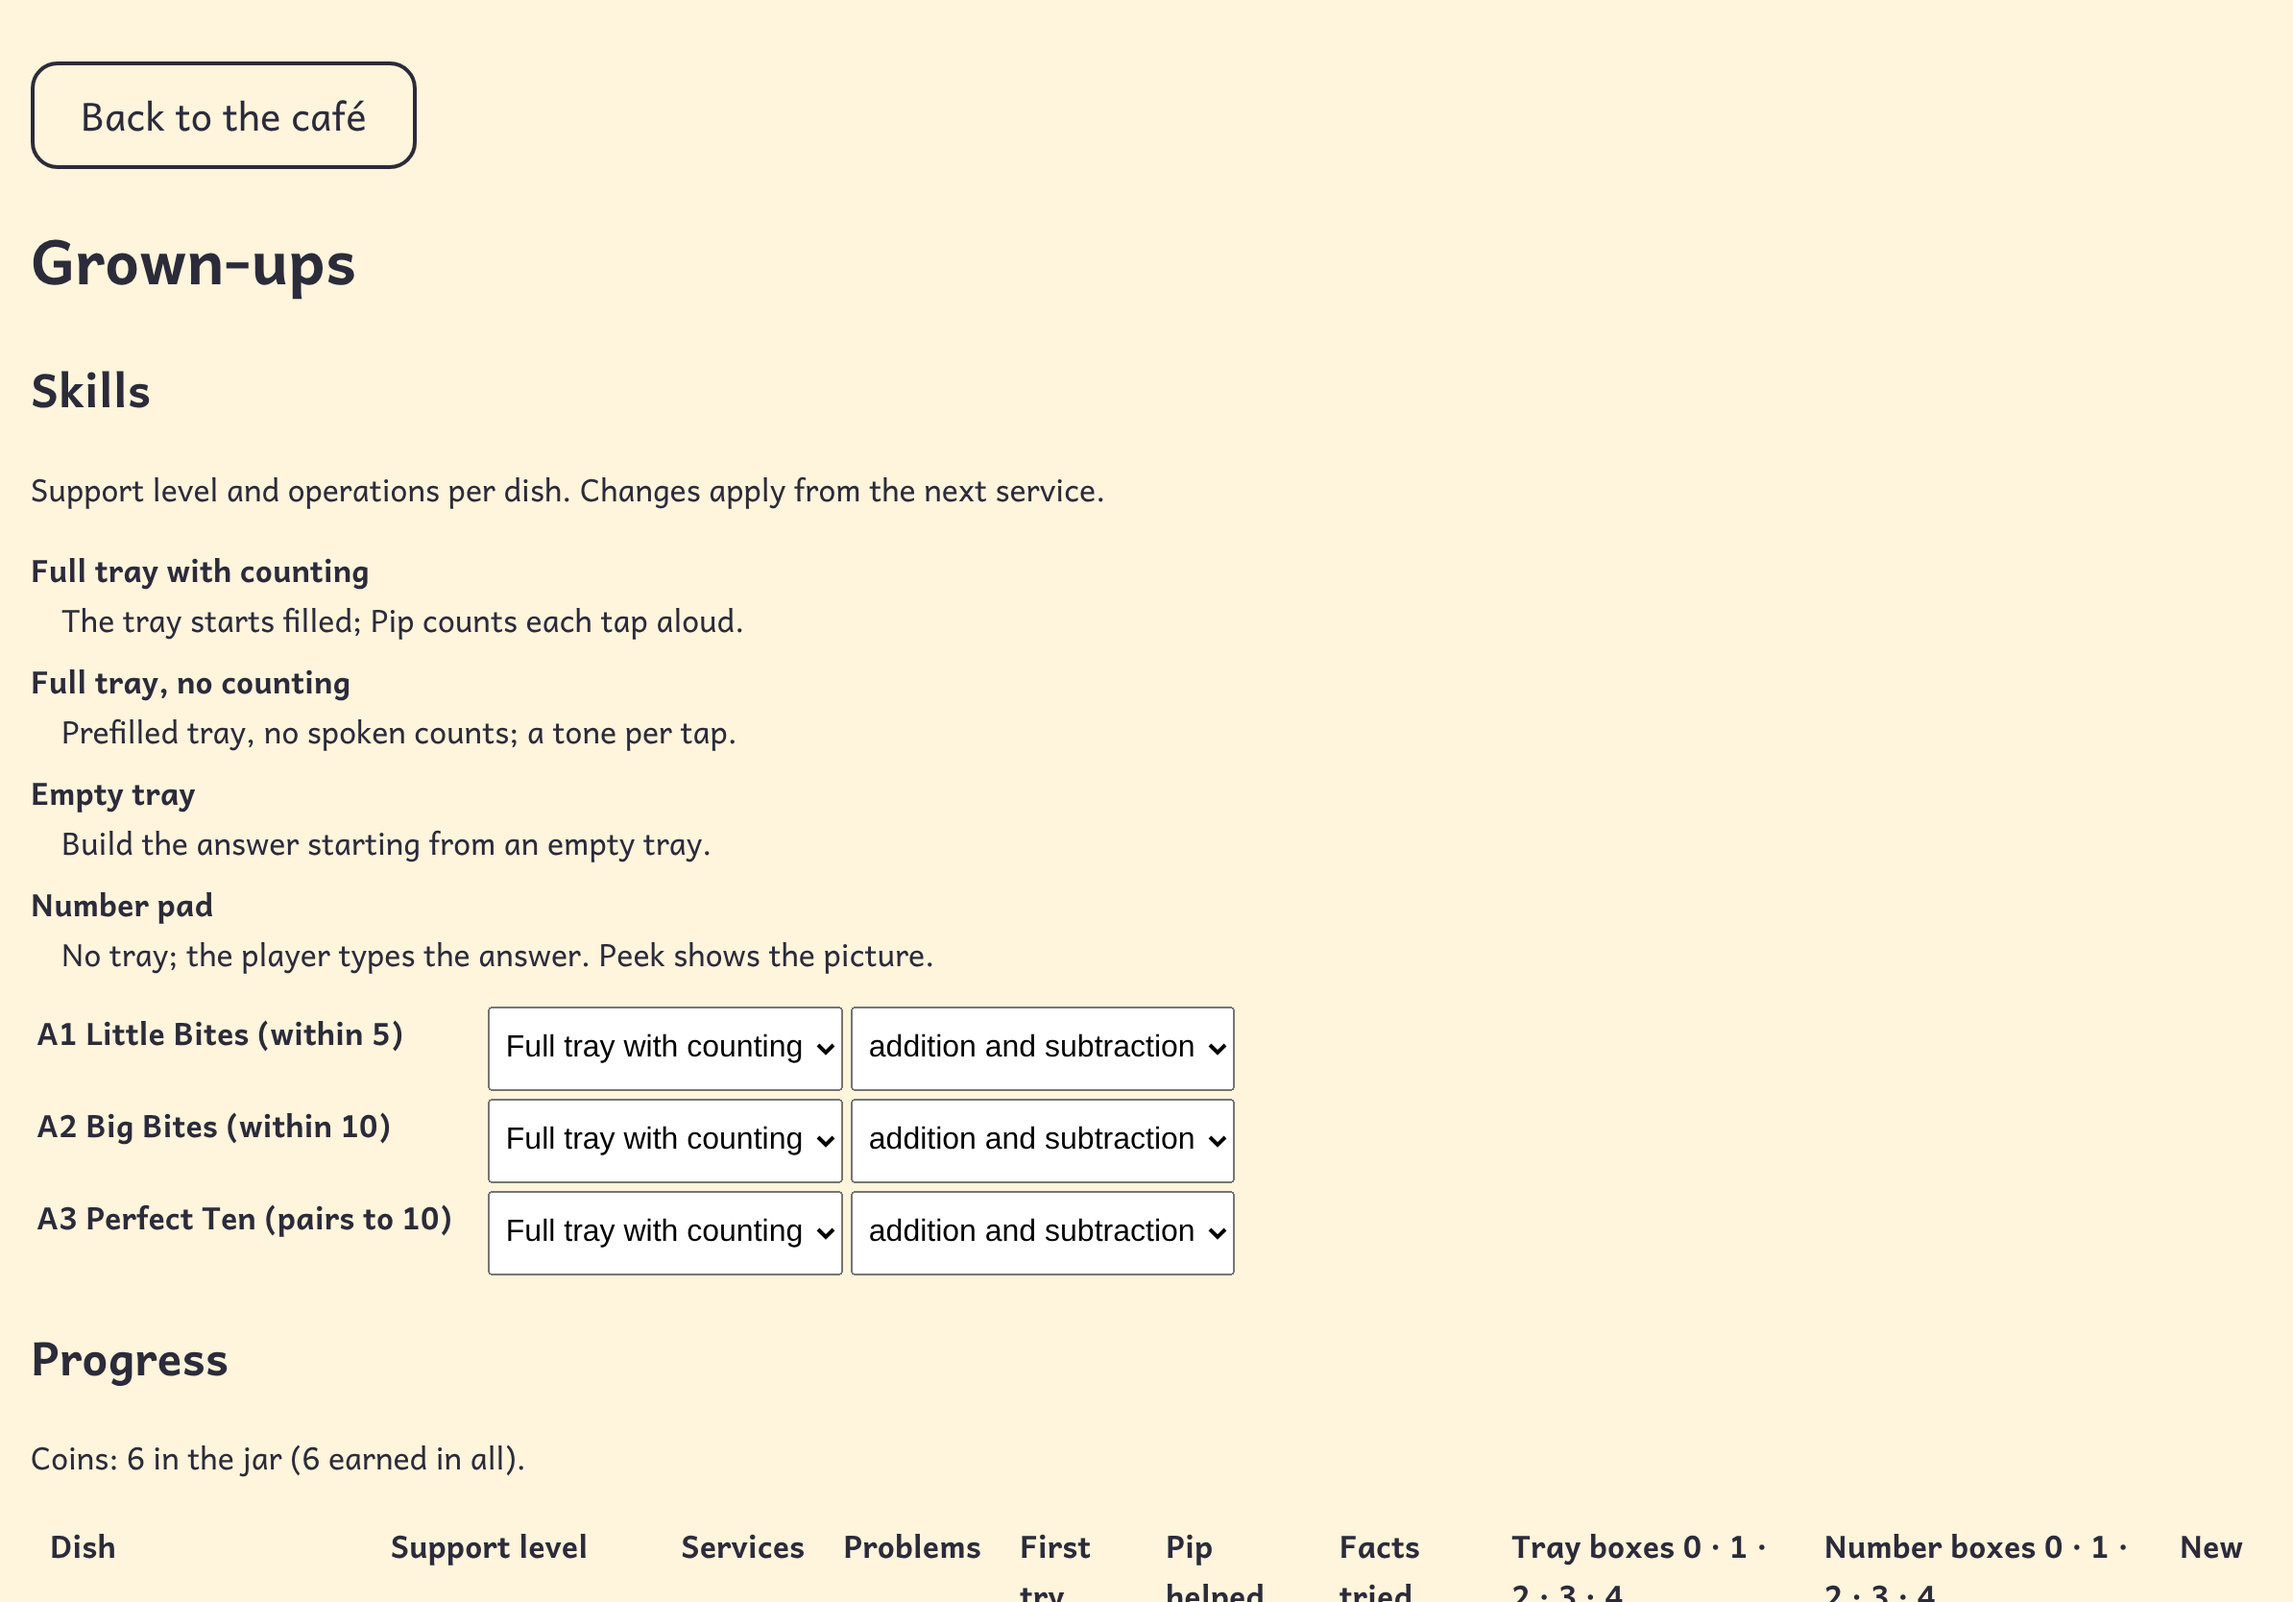
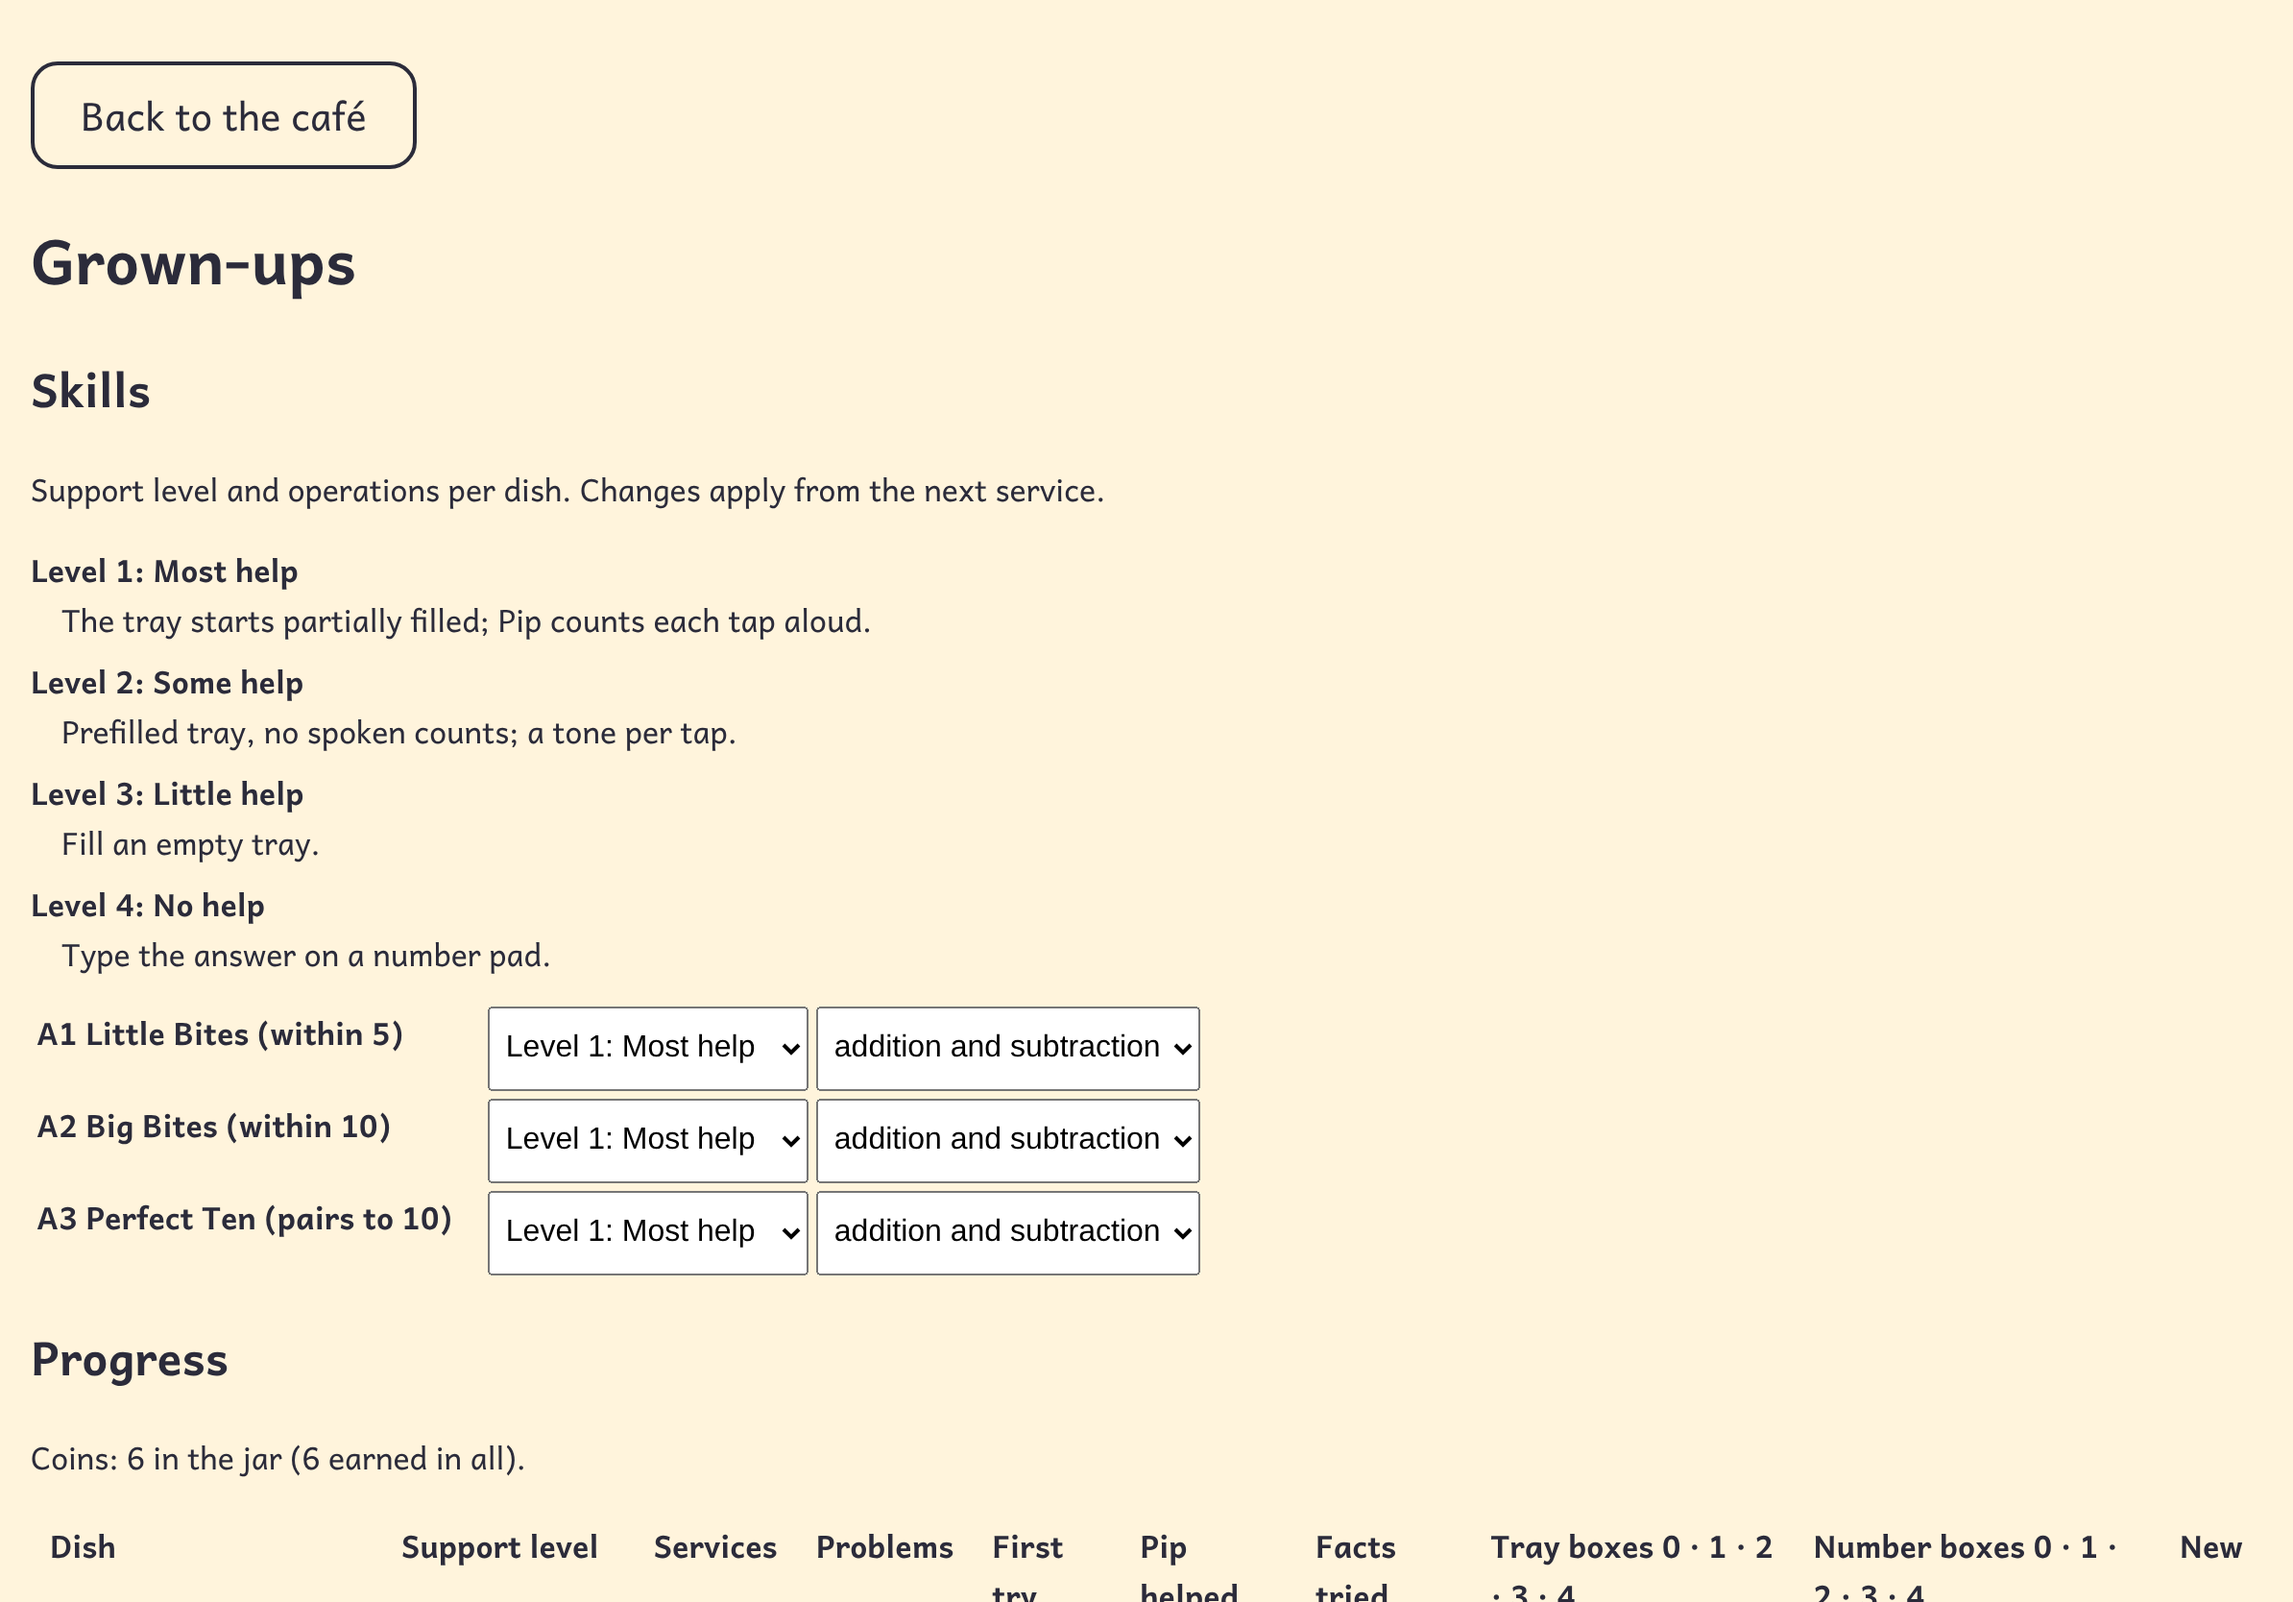
Rename support levels to Level 1–4: Most help · Some help · Little help · No help (D128)
Claude-Session: https://claude.ai/code/session_01CjmpHtR4knZvF6zh3An961

diff --git a/src/app/SkillPicker.tsx b/src/app/SkillPicker.tsx
@@ -3,18 +3,18 @@ import { STAGES, type Ops, type SkillId, type Stage } from '../engine/types';
 import { loadedProgress, useDerived } from './progress';
 import { configFor } from './skillConfig';
 
-/** Support-level names for grown-ups (owner's wording, D126); the S-codes stay internal. */
+/** Support-level names for grown-ups (owner's wording, D128); the S-codes stay internal. */
 export const STAGE_NAMES: Record<Stage, string> = {
-  3: 'Full tray with counting',
-  2: 'Full tray, no counting',
-  1: 'Empty tray',
-  0: 'Number pad',
+  3: 'Level 1: Most help',
+  2: 'Level 2: Some help',
+  1: 'Level 3: Little help',
+  0: 'Level 4: No help',
 };
 export const STAGE_HELP: Record<Stage, string> = {
-  3: 'The tray starts filled; Pip counts each tap aloud.',
+  3: 'The tray starts partially filled; Pip counts each tap aloud.',
   2: 'Prefilled tray, no spoken counts; a tone per tap.',
-  1: 'Build the answer starting from an empty tray.',
-  0: 'No tray; the player types the answer. Peek shows the picture.',
+  1: 'Fill an empty tray.',
+  0: 'Type the answer on a number pad.',
 };
 const OPS: Ops[] = ['both', 'add', 'sub'];
 const OPS_NAMES: Record<Ops, string> = {

diff --git a/tests/e2e/m3a.spec.ts b/tests/e2e/m3a.spec.ts
@@ -169,8 +169,8 @@ test('the Skills list behind the gear changes the next service; progress and sto
   await openGrownUps(page);
   await expect(page.getByTestId('stage-A2')).toHaveValue('3');
   // Owner wording (D126): levels by name with a description; ops spelled out; basket side after Progress.
-  await expect(page.getByTestId('stage-A2').locator('option:checked')).toHaveText('Full tray with counting');
-  await expect(page.getByTestId('stage-help')).toContainText('Number pad');
+  await expect(page.getByTestId('stage-A2').locator('option:checked')).toHaveText('Level 1: Most help');
+  await expect(page.getByTestId('stage-help')).toContainText('Level 4: No help');
   await expect(page.getByTestId('ops-A2').locator('option:checked')).toHaveText('addition and subtraction');
   await expect(page.getByTestId('basket-side-picker').locator('h2')).toHaveText('Basket side');
   await expect(page.locator('[data-testid=progress-list] ~ [data-testid=basket-side-picker]')).toHaveCount(1);

diff --git a/src/app/ProgressList.tsx b/src/app/ProgressList.tsx
@@ -98,9 +98,9 @@ export function ProgressList() {
         </tbody>
       </table>
       <p className="parent-note">
-        Each fact has two boxes. Tray boxes move up only on a right first answer at Empty tray; Number boxes
-        only on a right first answer at Number pad. On a full tray the boxes stay put. A miss or Pip&apos;s full
-        help puts the box for that level back to 0 (the full trays and Empty tray share the Tray box). The
+        Each fact has two boxes. Tray boxes move up only on a right first answer at Level 3; Number boxes only
+        on a right first answer at Level 4. At Levels 1 and 2 the boxes stay put. A miss or Pip&apos;s full help
+        puts the box for that level back to 0 (Levels 1–3 share the Tray box). The
         game picks facts using the boxes for the dish&apos;s current level: lower boxes come up more often.
       </p>
     </section>

diff --git a/docs/PLAYTEST.md b/docs/PLAYTEST.md
@@ -241,7 +241,7 @@ Owner notes (2026-11-17): coins persist after a kill; the question is clear and 
 ### M3a feedback round 1 (D126, D127)
 Progress from earlier builds keeps its events; the boxes are recomputed from them into the two sets on first open (a fact attempted at S1 before now counts in the Tray boxes).
 - [ ] **Close the café is not offered back.** Play an order, door sign → *Close the café*, kill the app and reopen: no question. Kill the app mid-service instead (no Close): the question still comes. Notes:
-- [ ] **Support level names.** Gear → hold → *Skills*: the four levels read *Full tray with counting · Full tray, no counting · Empty tray · Number pad*, each described above the list; operations read *addition and subtraction*. Clear? Notes:
+- [ ] **Support level names.** Gear → hold → *Skills*: the four levels read *Level 1: Most help · Level 2: Some help · Level 3: Little help · Level 4: No help*, each described above the list (D128); operations read *addition and subtraction*. Clear? Notes:
 - [ ] **Basket side** sits after Progress with a short description; the dropdown text is the same size as the body text and fits. Notes:
-- [ ] **Two box sets.** Progress shows *Tray boxes* and *Number boxes*. A few services at *Empty tray* move only the Tray boxes; a few at *Number pad* move only the Number boxes. +1 and doubles now start as new facts like any other (expect them to come up more often at first). Notes:
+- [ ] **Two box sets.** Progress shows *Tray boxes* and *Number boxes*. A few services at *Level 3* move only the Tray boxes; a few at *Level 4* move only the Number boxes. +1 and doubles now start as new facts like any other (expect them to come up more often at first). Notes:
 - [ ] **Chompers' teeth** stay attached to the top lip when he grins after eating (and Gruffles' fangs). Notes:

diff --git a/docs/DECISIONS.md b/docs/DECISIONS.md
@@ -133,5 +133,6 @@
 | D123 | Splash, Home, Menu and Results over the counter; one café scene for every child screen | SPEC §5.1–5.3, §5.7, §7.4; resolves the D121 two-scene note | Owner approved the mocks |
 | D124 | Play-time limit postponed indefinitely; moved from M3b to its own Tier 2 milestone M12 | SPEC §6, §12, §14 | Owner decision before M3 |
 | D125 | M3a persistence details: resume row from the start, offer once per launch, Not now clears (writing a missing serviceEnd); all orders served = finished, tipped; old picker becomes events; simple progress list | SPEC §5.8, §11.6, §12; amends D52; Close the café keeping the row superseded by D126 | SPEC left declining, re-asking and the progress list open |
-| D126 | M3a playtest: Close the café is never offered back; support levels named for the screen; ops and basket side wording; Chompers' teeth | SPEC §3.2, §5.8, §7.2, §11.6, §12; amends D125 | A deliberate close was offered back; S-names unclear to a parent |
+| D126 | M3a playtest: Close the café is never offered back; support levels named for the screen; ops and basket side wording; Chompers' teeth | SPEC §3.2, §5.8, §7.2, §11.6, §12; amends D125; level names superseded by D128 | A deliberate close was offered back; S-names unclear to a parent |
 | D127 | No starting preset; separate tray (S3–S1) and number-pad (S0) fact boxes | SPEC §4.1, §4.2, §11.2, §12; amends D16, D97 | Counting out at S1 says little about recall at S0; owner wants unbiased boxes |
+| D128 | Support levels renamed Level 1–4: Most help · Some help · Little help · No help | SPEC §3.2; amends D126 (b) | Owner's second naming pass |

diff --git a/docs/archive/DECISIONS_LOG.md b/docs/archive/DECISIONS_LOG.md
@@ -705,3 +705,8 @@ How to revisit: if the repeating ghost is distracting, show each hint once; `war
 - (c) The progress list shows both sets per dish ("Tray boxes", "Number boxes", and the never-seen facts apart).
 **Why:** Owner playtest. At *Empty tray* the child reliably solves any fact by counting out (taps for each addend; for subtraction, lay out the minuend and take away the subtrahend, as her workbook teaches). A first-try success there says little about recall at the number pad, which is closer to the flash cards the box method was built for, so S1 successes must not lower how often a fact comes up at S0.
 **How to revisit:** If S1 boxes prove meaningless, stop raising them at S1 (boxes only at S0). If a parent wants known facts seeded, M7's starting-point toggles write a `known` event.
+
+## D128 — Support levels renamed Level 1–4 by amount of help (2026-11-17)
+**What:** Parent-facing names and descriptions replace D126 (b): S3 *Level 1: Most help* — the tray starts partially filled; Pip counts each tap aloud. S2 *Level 2: Some help* — prefilled tray, no spoken counts; a tone per tap. S1 *Level 3: Little help* — fill an empty tray. S0 *Level 4: No help* — type the answer on a number pad. The progress list's note refers to the levels by number. S-codes stay internal.
+**Why:** Owner feedback after seeing the D126 names.
+**How to revisit:** Names live in `STAGE_NAMES` / `STAGE_HELP` (`src/app/SkillPicker.tsx`).

diff --git a/docs/SPEC.md b/docs/SPEC.md
@@ -181,7 +181,7 @@ interface TrayTask {         // derived from Problem + Stage, pure function
 
 The stage is a per-skill parent setting (default S3, D3, D23), stored as a `skillConfig` event and applied from the next service.
 
-Parents see the stages by name, with a one-line description each, in Parent → Skills (D126): S3 *Full tray with counting*, S2 *Full tray, no counting*, S1 *Empty tray*, S0 *Number pad*. The S-codes are internal.
+Parents see the stages by name, with a one-line description each, in Parent → Skills (D126, D128): S3 *Level 1: Most help* (the tray starts partially filled; Pip counts each tap aloud), S2 *Level 2: Some help* (prefilled tray, no spoken counts; a tone per tap), S1 *Level 3: Little help* (fill an empty tray), S0 *Level 4: No help* (type the answer on a number pad). The S-codes are internal.
 
 | Stage | Name | What the child sees/does | Tray starts | Sound per tap |
 |---|---|---|---|---|
